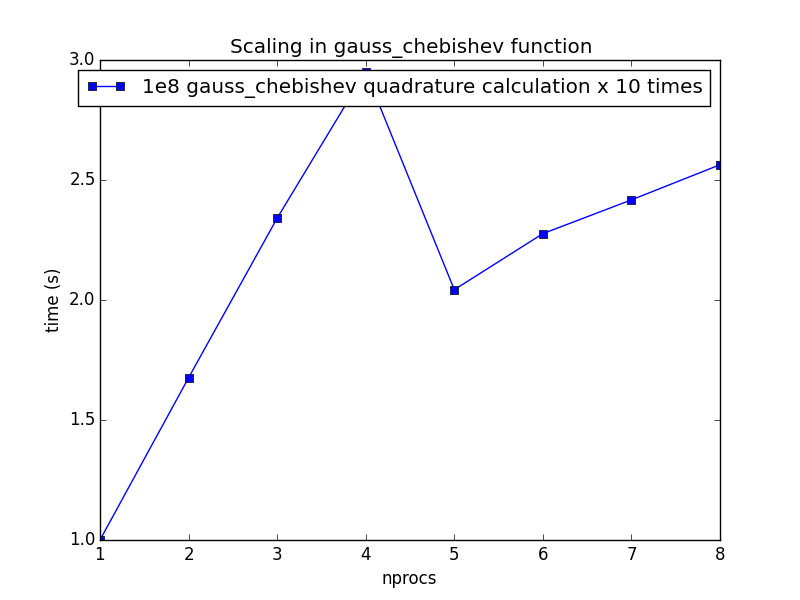
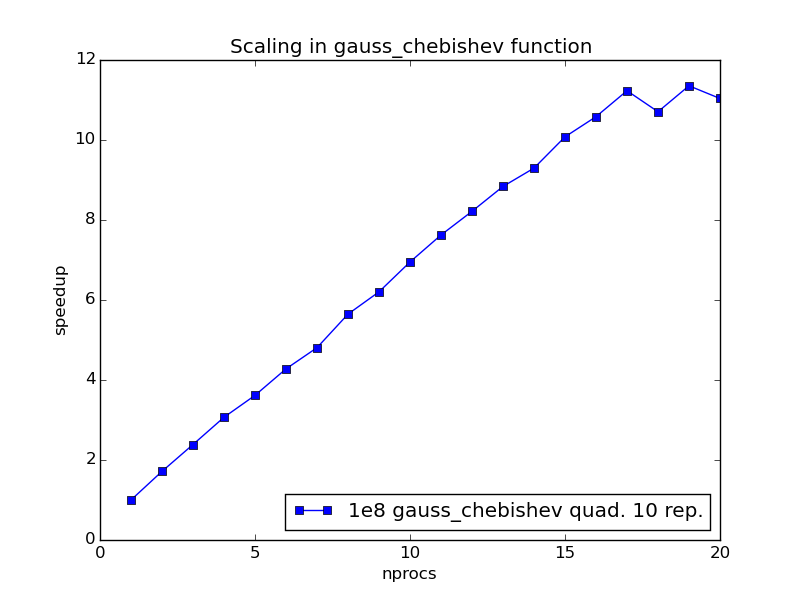
Updated results in OMP development.

diff --git a/results/Perf_OMP/Perf_OMP.py b/results/Perf_OMP/Perf_OMP.py
@@ -13,10 +13,13 @@ import sys
 
 
 def gauss_chebishev_omp():
-    nprocs = np.array([i for i in range(1, 9)])
+    nprocs = np.array([i for i in range(1, 21)])
     times = []
+    
+    os.system('cd ../../src; make test')
 
     for nproc in nprocs:
+        print(nproc)
         start_time = time.time()
         os.system(
                     'export LD_LIBRARY_PATH=$LD_LIBRARY_PATH:../../src; ' +
@@ -27,10 +30,10 @@ def gauss_chebishev_omp():
     times = np.array(times)
     print(times)
     plt.title('Scaling in gauss_chebishev function')
-    plt.plot(nprocs, times[0]/times, '-s', label='1e8 gauss_chebishev quadrature calculation x 10 times')
+    plt.plot(nprocs, times[0]/times, '-s', label='1e8 gauss_chebishev quad. 10 rep.')
     plt.xlabel('nprocs')
-    plt.ylabel('time (s)')
-    plt.legend()
+    plt.ylabel('speedup')
+    plt.legend(loc=4)
     plt.savefig('gauss_chebishev.png')
     plt.close()
 
